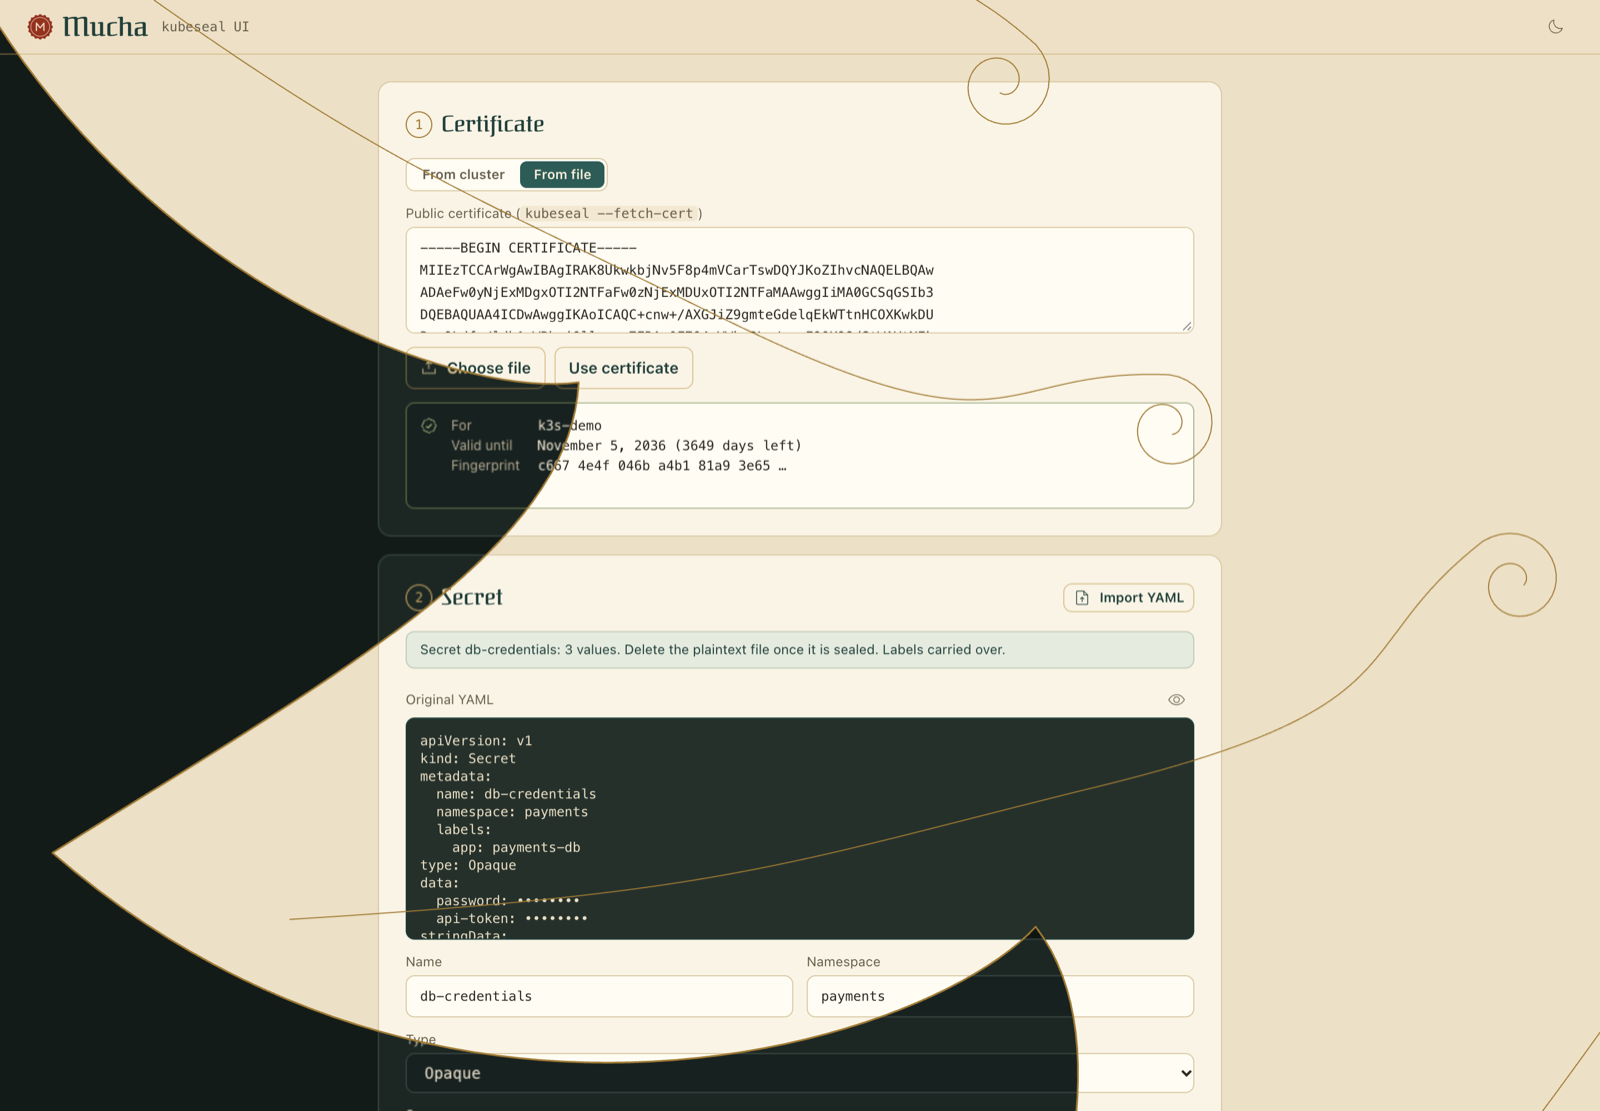
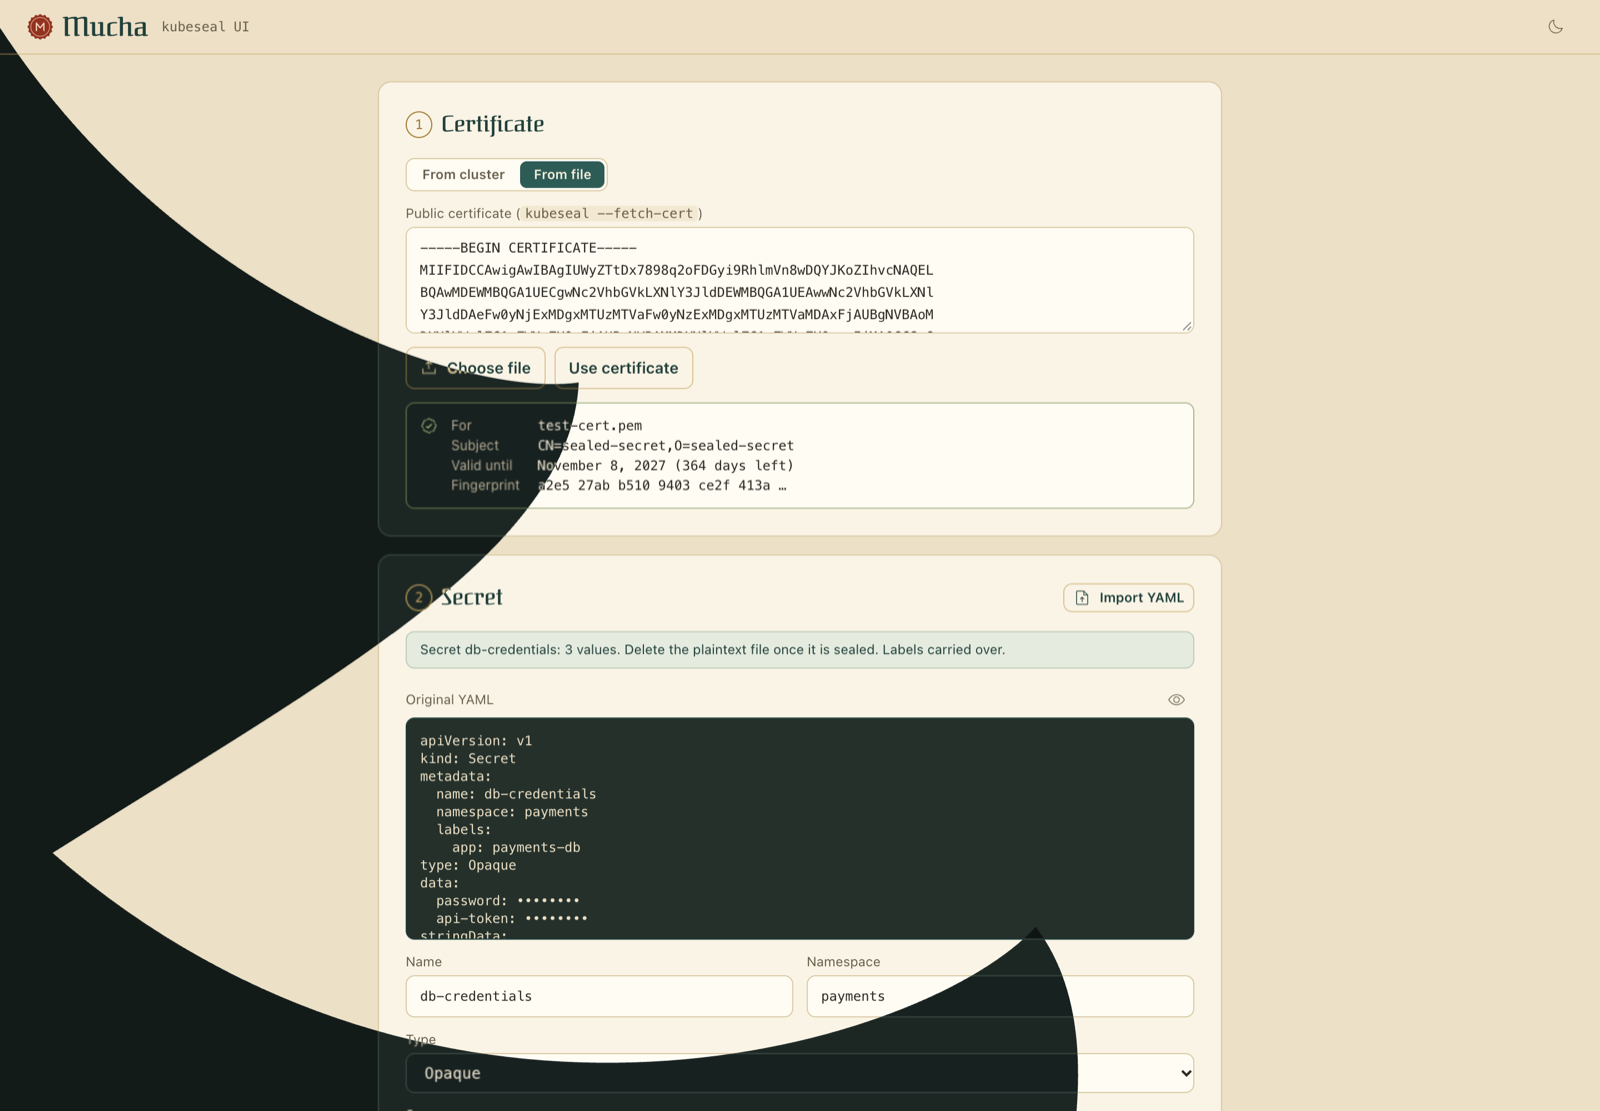
Theme bloom: drop the gold line work, keep the petals

Changed region(s): [[0.25, 0.2142, 0.5938, 0.306], [0.2812, 0.3672, 0.5, 0.459], [0.7188, 0.3366, 0.75, 0.3672]]

diff --git a/web/style.css b/web/style.css
@@ -404,18 +404,12 @@ dialog[open]::backdrop { opacity: 1; }
 ::view-transition-old(sealed), ::view-transition-new(sealed),
 ::view-transition-old(history), ::view-transition-new(history) { width: 100%; height: 100%; object-fit: none; object-position: top center; }
 
-/* Theme change: the new theme blooms out of the toggle through the petals of bloom.svg, with a gold line along
-   their edges. --k scales both the mask and the line work, so they stay in step. It ends once the petals' valleys
-   clear the farthest corner, which app.js works out as --bloom-end. */
+/* Theme change: the new theme blooms out of the toggle through the petals of bloom.svg. --k scales the mask, and
+   ends once the petals' valleys clear the farthest corner, which app.js works out as --bloom-end. */
 @property --k { syntax: "<number>"; inherits: false; initial-value: 0; }
 @keyframes bloom { to { --k: var(--bloom-end); } }
-#bloom { position: fixed; inset: 0; width: 100%; height: 100%; pointer-events: none; stroke: var(--gold); overflow: hidden; visibility: hidden; }
-.theme-bloom #bloom { visibility: visible; }
-#bloom g { transform: translate(var(--bloom-x), var(--bloom-y)) scale(var(--k)); }
-.bloom-run #bloom g { animation: bloom 1000ms cubic-bezier(.5, 0, .3, 1) forwards; }
 /* Everything is one snapshot here, so the whole page is inside the petals rather than gliding separately. */
 .theme-bloom * { view-transition-name: none !important; }
-.theme-bloom #bloom { view-transition-name: bloom !important; }
 .theme-bloom::view-transition-old(root) { animation: none; }
 .theme-bloom::view-transition-new(root) {
   animation: bloom 1000ms cubic-bezier(.5, 0, .3, 1) forwards;
@@ -424,9 +418,6 @@ dialog[open]::backdrop { opacity: 1; }
   mask-size: calc(var(--k) * 1000px) calc(var(--k) * 1000px);
   mask-position: calc(var(--bloom-x) - var(--k) * 500px) calc(var(--bloom-y) - var(--k) * 500px);
 }
-.theme-bloom::view-transition-group(bloom) { animation: none; }
-.theme-bloom::view-transition-old(bloom) { display: none; }
-.theme-bloom::view-transition-new(bloom) { animation: none; mix-blend-mode: normal; }
 
 @media (prefers-reduced-motion: reduce) {
   *, *::before, *::after { animation-name: fade-in !important; transition-duration: 200ms !important; }

diff --git a/web/app.js b/web/app.js
@@ -659,10 +659,10 @@ $('#theme').onclick = async () => {
   // 285 is the radius, in bloom.svg units, that every petal valley reaches, so the page ends up fully covered.
   root.style.setProperty('--bloom-end', Math.hypot(Math.max(x, innerWidth - x), Math.max(y, innerHeight - y)) / 285);
   root.classList.add('theme-bloom');
-  const t = document.startViewTransition(() => { root.classList.add('bloom-run'); switchTheme(); });
+  const t = document.startViewTransition(switchTheme);
   t.ready.catch(() => {});
   await t.finished.catch(() => {});
-  root.classList.remove('theme-bloom', 'bloom-run');
+  root.classList.remove('theme-bloom');
 };
 systemDark.addEventListener('change', renderTheme);
 renderTheme();

diff --git a/web/index.html b/web/index.html
@@ -162,8 +162,6 @@
   </form>
 </dialog>
 
-<svg id="bloom" aria-hidden="true"><g><use href="bloom.svg#lines"/></g></svg>
-
 <template id="key-row">
   <li class="key">
     <div class="key-top">

diff --git a/README.md b/README.md
@@ -73,7 +73,7 @@ Nothing leaves your machine. The page talks only to the local process, on `127.0
 
 The theme toggle follows your system until you press it. It changes theme by opening a flower across the page, because the project is named after [Alphonse Mucha](https://en.wikipedia.org/wiki/Alphonse_Mucha). With reduced motion on, it switches instantly.
 
-<p align="center"><img src="docs/bloom.png" width="640" alt="The theme change part way through: a pinwheel of gold-edged petals opening from the top right corner, the light theme inside the petals and the dark theme outside, with gold veins ending in small spiral curls."></p>
+<p align="center"><img src="docs/bloom.png" width="640" alt="The theme change part way through: a pinwheel of petals opening from the top right corner, the light theme inside the petals and the dark theme outside."></p>
 
 ### Try it without a cluster
 
